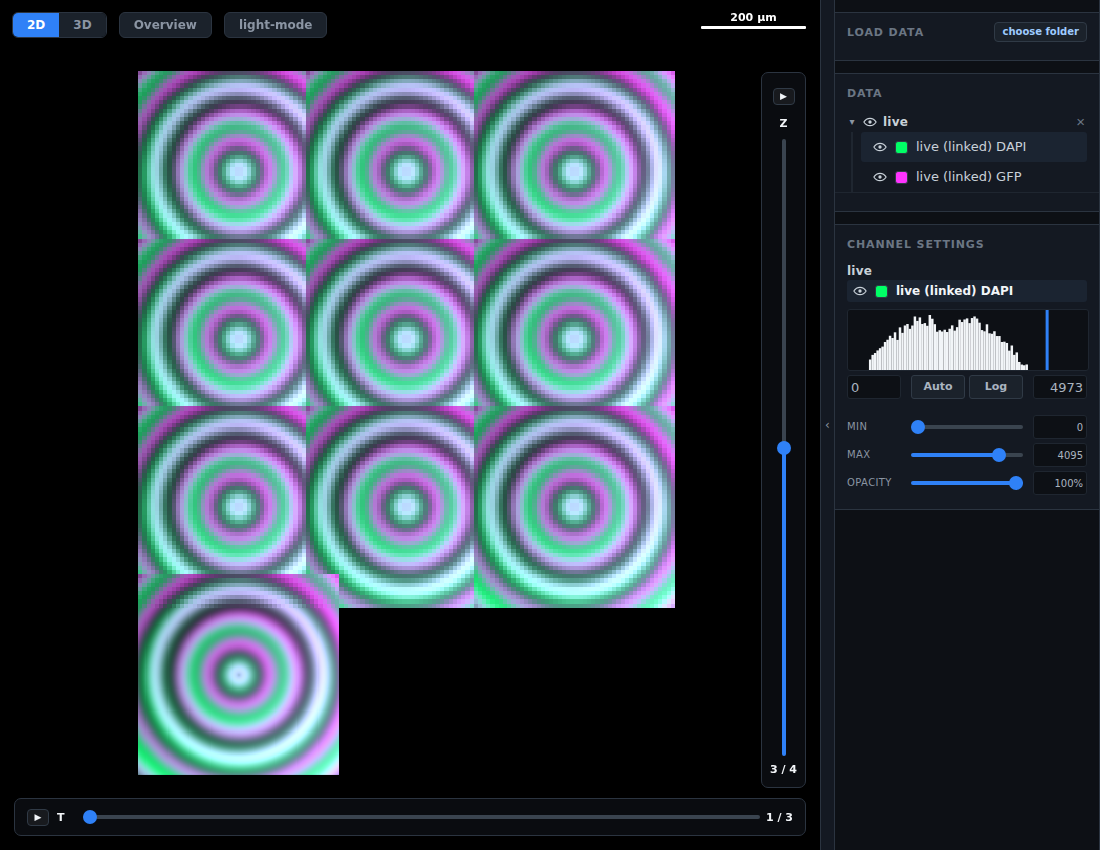
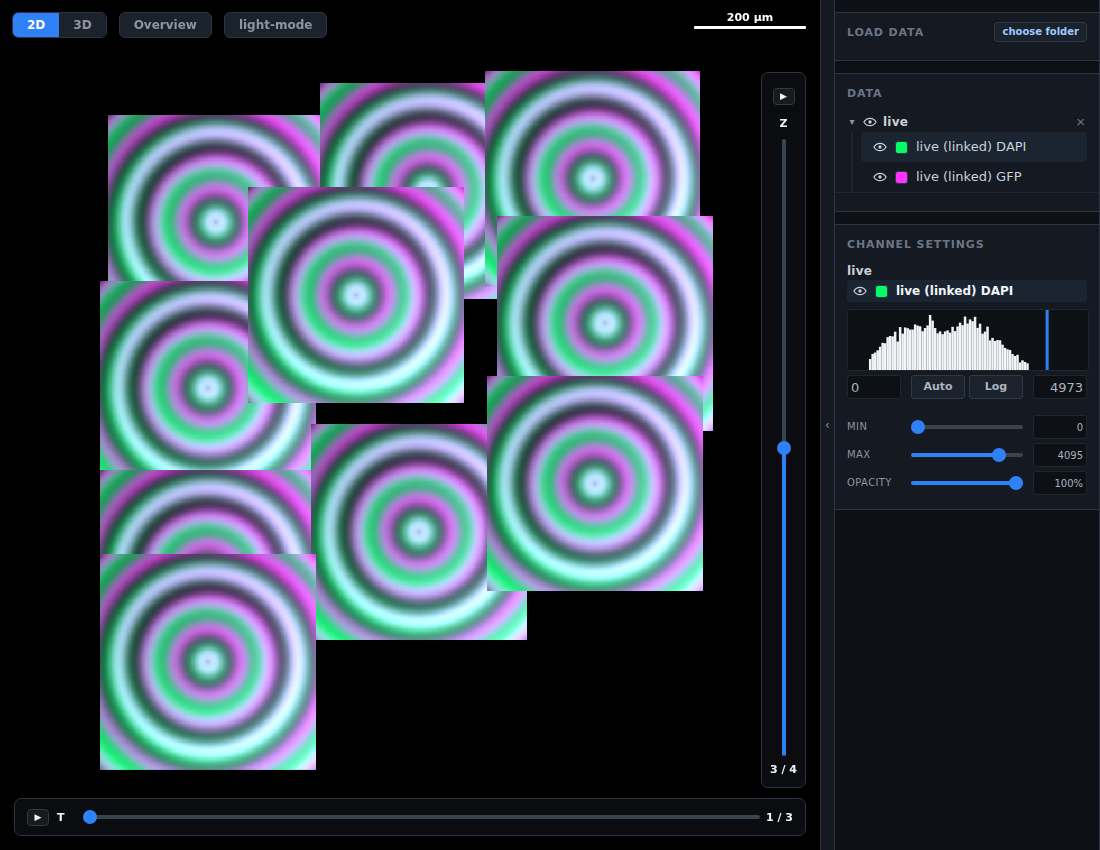
A failed cell records itself and the ladder keeps climbing
Overnight the ladder must not die at the first sick cell: the failure is
printed whole, written to the results as its own row, and the remaining
cells still get measured.

Claude-Session: https://claude.ai/code/session_01AQ24ijAfLkMgiZjniYr3g5

diff --git a/benchmark/churn_ladder.py b/benchmark/churn_ladder.py
@@ -565,8 +565,19 @@ def main() -> None:
                     folder = LADDER / label
                     print(f"  -- {placement}, {'baked' if bake else 'unbaked'}", flush=True)
                     origins = origins_for(count, scattered)
-                    cell = a_cell(folder, profile, origins, bake=bake, browser=browser, label=label)
-                    cell["rss_mb"] = resident_mb()
+
+                    try:
+                        cell = a_cell(
+                            folder, profile, origins, bake=bake, browser=browser, label=label
+                        )
+                        cell["rss_mb"] = resident_mb()
+                    except Exception as wrong:
+                        # A failed cell is a result too: recorded loudly, and the
+                        # night's remaining cells still get measured.
+                        import traceback
+
+                        traceback.print_exc()
+                        cell = {"failed": f"{type(wrong).__name__}: {wrong}"[:300]}
                     record.write(
                         json.dumps(
                             {"positions": count, "placement": placement, "baked": bake, **cell}
